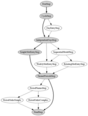
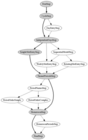
Update the test plan to include the new homeroom steps.  Add the "do you have a homeroom?" question step to the timetable wizard.

diff --git a/src/schooltool/timetable/browser/ttwizard.py b/src/schooltool/timetable/browser/ttwizard.py
@@ -24,6 +24,9 @@ on the schooltool mailing list, in ttschema-wireframes.pdf[1].
 
     [1] http://lists.schooltool.org/pipermail/schooltool/2005-June/001347.html
 
+It has been slightly modified since.  You can find an up-to-date diagram
+of the workflow in src/schooltool/app/browser/ftests/images/
+
 The workflow is as follows:
 
     1. "New timetable schema"
@@ -92,13 +95,21 @@ The workflow is as follows:
 
         (The user sees a grid of drop-downs.)
 
-    14. The timetable schema is created.
+    14. "Does your school have a homeroom period?"
+
+        Skip to step 16 if it doesn't.
+
+    15. "Indicate which period is the homeroom period."
+
+        (The user sees a list of drop-downs.)
+
+    16. The timetable schema is created.
 
 
-The shortest path through this workflow contains 6 steps, the longest contains
-11 steps.
+The shortest path through this workflow contains 7 steps, the longest contains
+13 steps.
 
-Step 14 needs the following data:
+Step 16 needs the following data:
 
     - title (determined in step 1)
     - timetable model factory (determined in step 2)
@@ -523,7 +534,7 @@ class NamedPeriodsStep(ChoiceStep):
         if session['named_periods']:
             return PeriodNamesStep(self.context, self.request)
         else:
-            return FinalStep(self.context, self.request)
+            return HomeroomStep(self.context, self.request)
 
 
 class PeriodNamesStep(FormStep):
@@ -627,7 +638,7 @@ class PeriodOrderSimple(Step):
         return True
 
     def next(self):
-        return FinalStep(self.context, self.request)
+        return HomeroomStep(self.context, self.request)
 
 
 class PeriodOrderComplex(Step):
@@ -684,7 +695,30 @@ class PeriodOrderComplex(Step):
         return True
 
     def next(self):
-        return FinalStep(self.context, self.request)
+        return HomeroomStep(self.context, self.request)
+
+
+class HomeroomStep(ChoiceStep):
+    """A step for choosing whether the school has homeroom periods."""
+
+    key = 'homeroom'
+
+    question = _("Do you check student attendance for the day in a homeroom"
+                 " period or equivalent?")
+
+    choices = (('yes', _("Yes")),
+               ('no',  _("No")))
+
+    def next(self):
+        session = self.getSessionData()
+        if session['homeroom'] == 'yes':
+            # TODO: HomeroomPeriodsStep
+            return FinalStep(self.context, self.request)
+        else:
+            return FinalStep(self.context, self.request)
+
+
+# TODO: HomeroomPeriodsStep
 
 
 class FinalStep(Step):

diff --git a/src/schooltool/timetable/browser/tests/test_ttwizard.py b/src/schooltool/timetable/browser/tests/test_ttwizard.py
@@ -760,7 +760,7 @@ def doctest_NamedPeriodsStep():
 
         >>> view.getSessionData()['named_periods'] = False
         >>> view.next()
-        <...ttwizard.FinalStep...>
+        <...ttwizard.HomeroomStep...>
 
     """
 
@@ -836,12 +836,13 @@ def doctest_PeriodNamesStep():
         >>> view.getSessionData()['period_names']
         [u'A', u'B', u'C', u'D']
 
-    The next page is FinalStep.
+    The next page is HomeroomStep.
 
         >>> view.next()
         <schooltool.timetable.browser.ttwizard.PeriodSequenceSameStep ...>
 
     """
+
 
 def doctest_PeriodSequenceSameStep():
     r"""Unit test for PeriodSequenceSameStep
@@ -865,6 +866,7 @@ def doctest_PeriodSequenceSameStep():
         <schooltool.timetable.browser.ttwizard.PeriodOrderComplex...>
 
     """
+
 
 def doctest_PeriodOrderSimple():
     """Unit test for PeriodOrderSimple view
@@ -945,7 +947,7 @@ def doctest_PeriodOrderSimple():
     The next step is always the final step:
 
         >>> view.next()
-        <...ttwizard.FinalStep ...>
+        <...ttwizard.HomeroomStep ...>
 
     If not all periods are in the request, update fails and the user
     gets an error.  This is unlikely in real life as the dropdowns
@@ -1127,7 +1129,7 @@ def doctest_PeriodOrderComplex():
     The next step is always the final step:
 
         >>> view.next()
-        <...ttwizard.FinalStep ...>
+        <...ttwizard.HomeroomStep ...>
 
     If not all periods are in the request, update fails and the user
     gets an error.  This is unlikely in real life as the dropdowns
@@ -1284,6 +1286,33 @@ def doctest_PeriodOrderComplex_weekly_rotating():
 
         >>> view.numSlots()
         [1, 1, 3, 1, 1]
+
+    """
+
+
+def doctest_HomeroomStep():
+    r"""Unit test for HomeroomStep
+
+        >>> from schooltool.timetable.browser.ttwizard import HomeroomStep
+        >>> context = app['ttschemas']
+        >>> request = TestRequest()
+        >>> view = HomeroomStep(context, request)
+
+    If you say that your school does not take attendance in a homeroom period,
+    you will be redirected to FinalStep.
+
+        >>> session = view.getSessionData()
+        >>> session['homeroom'] = 'no'
+        >>> view.next()
+        <...ttwizard.FinalStep...>
+
+    Otherwise, you will have to specify the homeroom period for each day
+
+    XXX not implemented yet
+
+        >>> session['homeroom'] = 'yes'
+        >>> view.next()
+        <...ttwizard.FinalStep...>
 
     """
 
